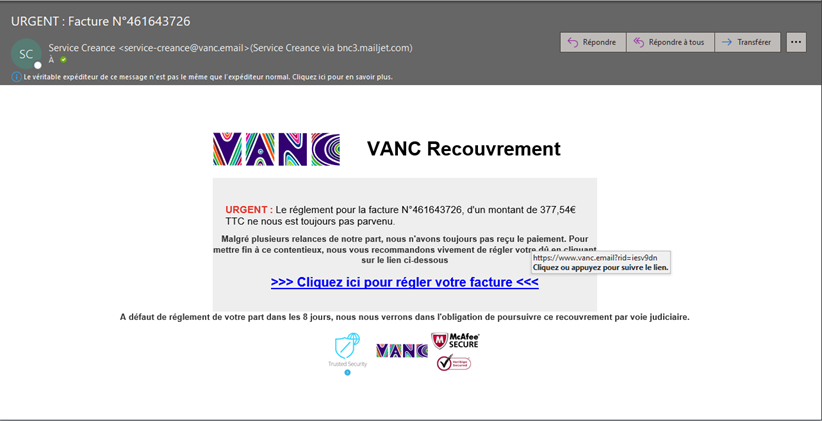
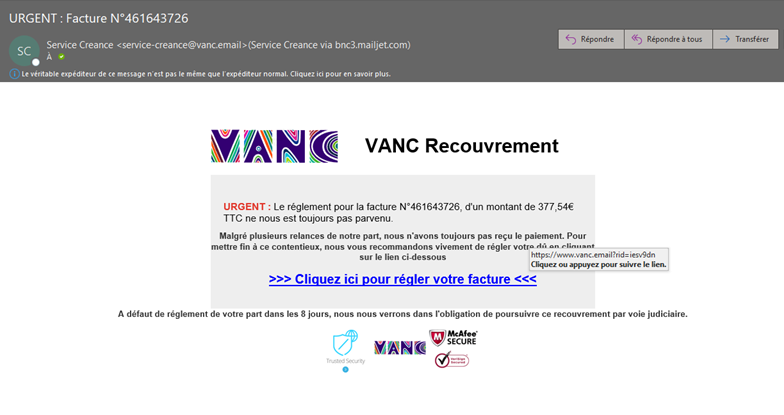
mail08

diff --git a/src/components/Campaign/Mail08.vue b/src/components/Campaign/Mail08.vue
@@ -1,0 +1,165 @@
+<template>
+  <div>
+    <div class="wrapper--img">
+      <img
+        class="img-phishing"
+        src="@/assets/images/campaign/mail08.png"
+        alt=""
+        srcset=""
+      />
+      <Tooltip infoOverlay="overlay-1" positionSpot="position-1">
+        <template v-slot:textinfo>
+          L’adresse d’envoi et l’URL de redirection sont cohérentes cependant on
+          remarque qu’il s’agit d’un domaine en .email. Les services légitimes
+          français sont généralement hébergés sur des domaines en
+          <code>.fr</code> ou en <code>.com</code>
+          (pour l’aspect international). Si vous voyez un domaine d’émission un
+          peu particulier, même si ce n’est pas un critère discriminant, cela
+          doit attirer votre attention.
+        </template>
+      </Tooltip>
+      <Tooltip infoOverlay="overlay-2" positionSpot="position-2">
+        <template v-slot:textinfo>
+          Pour vous inciter à cliquer rapidement &laquo;sans trop
+          réfléchir&raquo; il est instauré un sentiment d’urgence dans le mail.
+          Même si le sujet est urgent, prenez toujours le temps de la réflexion.
+        </template>
+      </Tooltip>
+      <Tooltip infoOverlay="overlay-3" positionSpot="position-3">
+        <template v-slot:textinfo>
+          Afin d’ajouter de la confiance au mail, les données (N° de facture,
+          montant…) sont souvent très précises. Cependant dans les mails
+          légitimes, aucune données précise n’est normalement indiquée, vous
+          êtes généralement invité à vous connecter au service pour accéder aux
+          informations précises
+        </template>
+      </Tooltip>
+      <Tooltip infoOverlay="overlay-4" positionSpot="position-4">
+        <template v-slot:textinfo>
+          Attention au faux sentiment de sécurité. Pour rendre légitime et
+          &laquo;sécurisé&raquo; un mail les pirates informatiques n’hésites pas
+          à agréger les multiples logos &laquo;sécurité&raquo; qu’ils peuvent
+          trouver. Soyez vigilant, un logo sécurité ne veut pas dire confiance
+          aveugle au mail
+        </template>
+      </Tooltip>
+    </div>
+  </div>
+</template>
+
+<script>
+import Tooltip from "@/components/Utils/Tooltip";
+export default {
+  components: {
+    Tooltip,
+  },
+};
+</script>
+<style lang="scss">
+.position-1 {
+  top: 5rem;
+  left: 19rem;
+}
+.position-2 {
+  top: 2rem;
+  left: 4rem;
+}
+
+.position-3 {
+  top: 21rem;
+  left: 42rem;
+}
+.position-4 {
+  top: 37rem;
+  left: 44rem;
+}
+
+.overlay-1 {
+  clip-path: polygon(
+    0% 0%,
+    0% 100%,
+    22.71% 100%,
+    22.71% 12.77%,
+    22.71% 7.36%,
+    31.68% 7.36%,
+    31.68% 12.77%,
+    22.71% 12.77%,
+    22.71% 100%,
+    63.74% 100%,
+    64% 58.34%,
+    87.24% 58.39%,
+    87.28% 64.44%,
+    63.74% 64.68%,
+    63.74% 100%,
+    100% 100%,
+    100% 0%
+  );
+}
+
+.overlay-2 {
+  clip-path: polygon(
+    0% 0%,
+    0% 100%,
+    22.71% 100%,
+    0.53% 6.79%,
+    0.53% 2.1%,
+    8.01% 2.1%,
+    8.01% 6.78%,
+    0.53% 6.79%,
+    22.71% 100%,
+    63.74% 100%,
+    42.66% 77.06%,
+    33.23% 77.02%,
+    33.26% 72.75%,
+    34.82% 50.81%,
+    27.86% 50.77%,
+    27.86% 46.71%,
+    34.17% 46.7%,
+    33.18% 72.82%,
+    42.54% 72.82%,
+    42.58% 77.36%,
+    63.74% 100%,
+    100% 100%,
+    100% 0%
+  );
+}
+.overlay-3 {
+  clip-path: polygon(
+    0% 0%,
+    0% 100%,
+    25.71% 100%,
+    25.97% 45.45%,
+    68.3% 45.93%,
+    74.01% 45.93%,
+    74.01% 51.31%,
+    68.16% 51.31%,
+    68.25% 45.7%,
+    58.79% 45.71%,
+    58.81% 51.19%,
+    50.8% 51.07%,
+    50.82% 45.48%,
+    25.97% 45.22%,
+    25.71% 100%,
+    100% 100%,
+    100% 0%
+  );
+}
+.overlay-4 {
+  clip-path: polygon(
+    0% 0%,
+    0% 100%,
+    40.77% 100%,
+    40.77% 77.31%,
+    62.85% 77.31%,
+    62.85% 88.53%,
+    54.35% 88.53%,
+    54.35% 77.31%,
+    47.41% 77.31%,
+    47.41% 89.08%,
+    40.77% 89.08%,
+    40.77% 100%,
+    100% 100%,
+    100% 0%
+  );
+}
+</style>

diff --git a/src/components/Campaign/Mail07.vue b/src/components/Campaign/Mail07.vue
@@ -26,10 +26,8 @@
       </Tooltip>
       <Tooltip infoOverlay="overlay-3" positionSpot="position-3">
         <template v-slot:textinfo>
-          Le mails présente des erreur dans l’interprétation des caractères.
-          Soyez vigilants lorsque des mails présentent des problèmes de
-          formulation, des fautes d’orthographe ou des erreurs dans la
-          présentation des caractères.
+          Un principe, général, méfiez-vous des services/documents gratuits. A minima l’objectif est de récupérer votre adresse mail afin de vous envoyer des publicités. Qui plus est sur des sujets accrocheurs en lien avec l’actualité (contexte sanitaire, politique, soldes, périodes particulières..)
+
         </template>
       </Tooltip>
     </div>

diff --git a/src/router/index.js b/src/router/index.js
@@ -64,6 +64,12 @@ Vue.use(VueRouter)
         component: () => import(/* webpackChunkName: "mail07" */ '../components/Campaign/Mail07.vue'),
 
       },
+      {
+        path:'8',
+        name: 'mail08',
+        component: () => import(/* webpackChunkName: "mail08" */ '../components/Campaign/Mail08.vue'),
+
+      },
       
     ]
   },

diff --git a/src/scss/campaign/_layout.scss b/src/scss/campaign/_layout.scss
@@ -27,7 +27,8 @@ body {
     }
 
     .visual-report {
-        width: 118rem;
+        max-width: 118rem;
+        min-width: 95rem;
         min-height: 55rem;
         background: #fff;
         margin: 0 auto;

diff --git a/src/components/Utils/Tooltip.vue b/src/components/Utils/Tooltip.vue
@@ -119,7 +119,7 @@ export default {
 
 // Animation
 @keyframes social-button-beat{
-    0%{opacity: .8;
+    0%{opacity: .4;
         transform: scale(1);
     } 
 

diff --git a/src/scss/campaign/_variables.scss b/src/scss/campaign/_variables.scss
@@ -1,6 +1,7 @@
 $bg-color : #EFF8FD;
 
-$spot-color:#ffbf0f;
+$spot-color:#FFE980 ;
+
 
 /****************************
 *          FONT SIZE                
